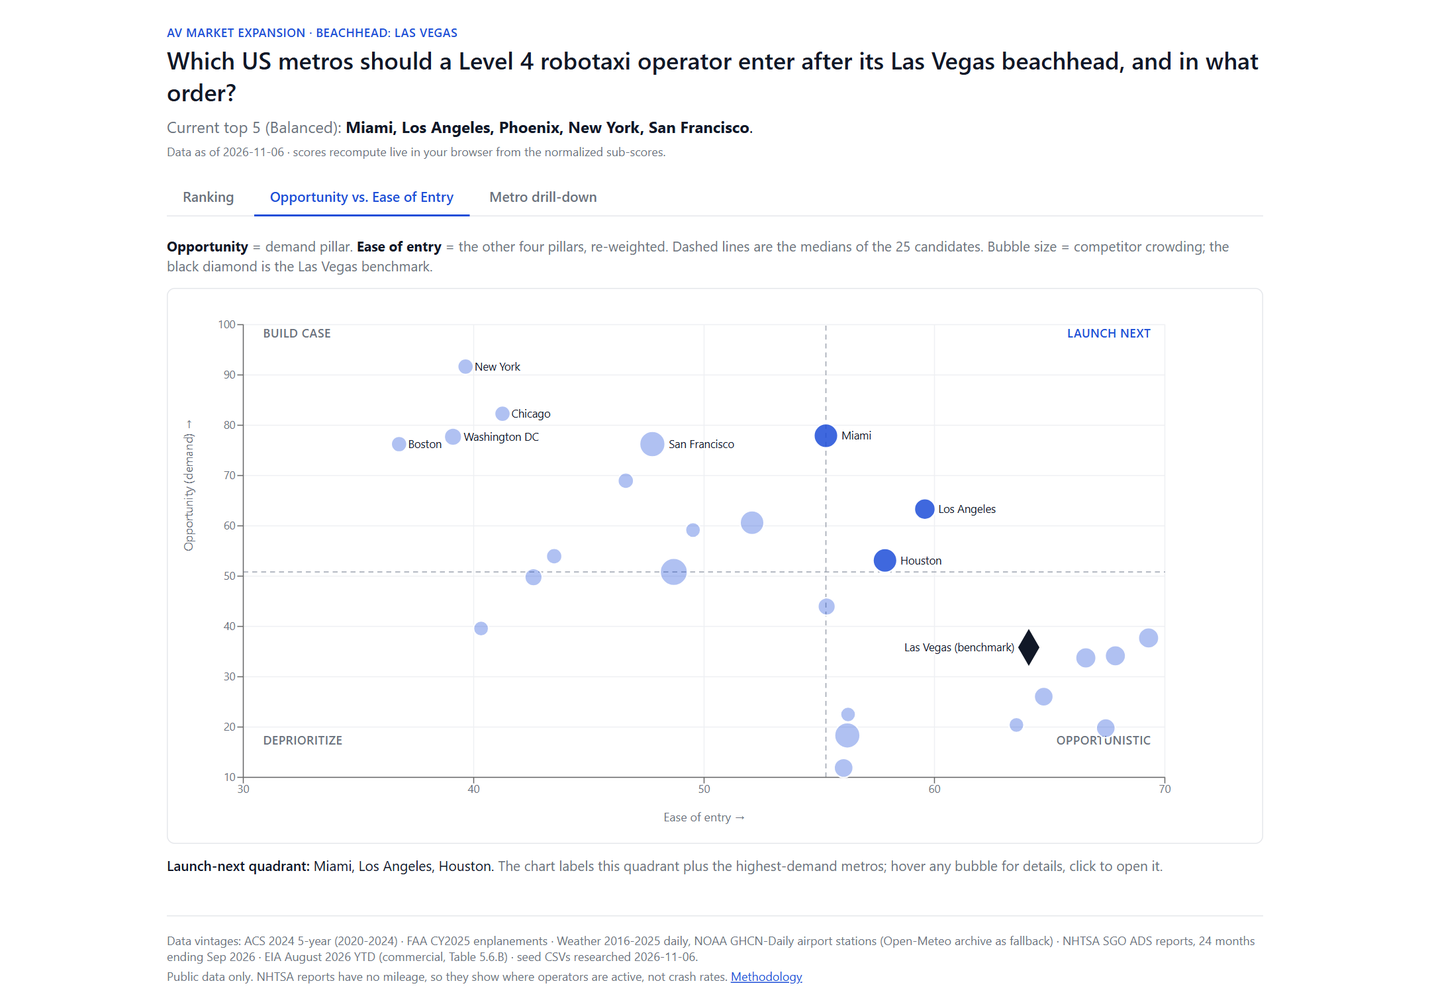
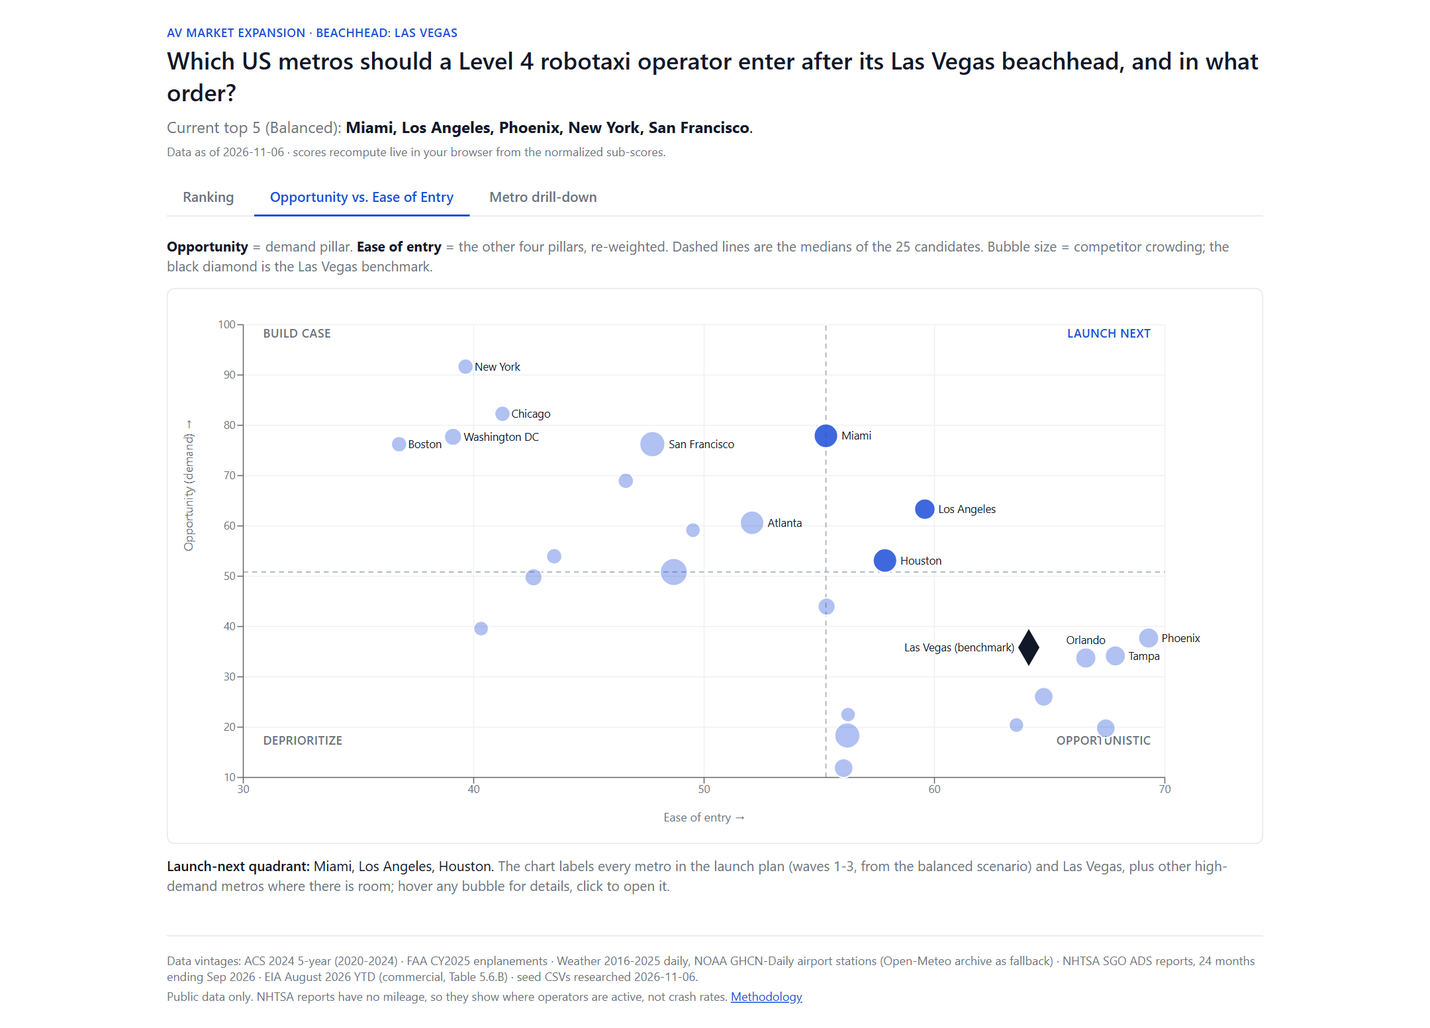
Label every wave metro and Las Vegas in the app 2x2; state wave 1 permit timing in memo, deck and README
- enrich.py stamps each metro with its wave (from reports/plan.py) so the app can label waves 1-3; placement is collision-avoiding, wave metros and Las Vegas always labelled
- Wave 1 timing: metros in slow-permit states (Los Angeles, San Francisco: California) start the permit process now with paid service after permits; Miami and Phoenix launch first; San Francisco only just clears the 50% gate (54%)
- Deck slide 4 tags each wave 1 metro; memo stays on one page; tests added

diff --git a/app/src/components/Quadrant.tsx b/app/src/components/Quadrant.tsx
@@ -3,14 +3,14 @@ import { CartesianGrid, Cell, LabelList, ReferenceLine, ResponsiveContainer, Sca
 import type { Row } from '../scoring'
 import { median } from '../scoring'
 
-interface Pt { name: string; x: number; y: number; z: number; q: string }
+interface Pt { name: string; x: number; y: number; z: number; q: string; wave: number | null }
 interface Place { dx: number; dy: number; anchor: 'start' | 'end' | 'middle' }
 
 const CHAR_W = 6.1, LABEL_H = 13
 
 /** Greedy label placement in approximate pixel space: try right, left, above, below (then diagonals) and keep the first spot that
- *  overlaps no bubble and no earlier label. Earlier names in `order` get first choice. */
-function placeLabels(pts: Pt[], order: string[], plotW: number, plotH: number, dx: [number, number], dy: [number, number]): Record<string, Place> {
+ *  overlaps no bubble and no earlier label. Earlier names in `order` get first choice. A label with must = false is dropped if no clean spot exists. */
+function placeLabels(pts: Pt[], order: { name: string; must: boolean }[], plotW: number, plotH: number, dx: [number, number], dy: [number, number]): Record<string, Place> {
   const px = (p: Pt) => ((p.x - dx[0]) / (dx[1] - dx[0])) * plotW
   const py = (p: Pt) => plotH - ((p.y - dy[0]) / (dy[1] - dy[0])) * plotH
   const zs = pts.map(p => p.z), zmin = Math.min(...zs), zmax = Math.max(...zs)
@@ -20,7 +20,7 @@ function placeLabels(pts: Pt[], order: string[], plotW: number, plotH: number, d
   const bubbles: Box[] = pts.map(p => [px(p) - radius(p), py(p) - radius(p), px(p) + radius(p), py(p) + radius(p)])
   const placed: Box[] = []
   const out: Record<string, Place> = {}
-  for (const name of order) {
+  for (const { name, must } of order) {
     const p = pts.find(q => q.name === name)
     if (!p) continue
     const w = name.length * CHAR_W, r = radius(p), cx = px(p), cy = py(p)
@@ -36,7 +36,8 @@ function placeLabels(pts: Pt[], order: string[], plotW: number, plotH: number, d
     ]
     const inside = (b: Box) => b[0] >= -60 && b[2] <= plotW + 80 && b[1] >= 0 && b[3] <= plotH
     const free = (b: Box) => inside(b) && !bubbles.some((bb, i) => pts[i].name !== name && hit(b, bb)) && !placed.some(pb => hit(b, pb))
-    const pick = cands.find(c => free(c.box)) ?? cands[0]
+    const pick = cands.find(c => free(c.box)) ?? (must ? cands[0] : undefined)
+    if (!pick) continue
     out[name] = pick.pl
     placed.push(pick.box)
   }
@@ -48,9 +49,9 @@ export default function Quadrant({ rows, onOpen }: { rows: Row[]; onOpen: (m: st
   const mx = median(cand.map(r => r.ease))
   const my = median(cand.map(r => r.opportunity))
   const quad = (x: number, y: number) => (y >= my ? (x >= mx ? 'Launch next' : 'Build case') : (x >= mx ? 'Opportunistic' : 'Deprioritize'))
-  const pts: Pt[] = cand.map(r => ({ name: r.m.metro, x: r.ease, y: r.opportunity, z: 0.5 + r.m.raw.crowding, q: quad(r.ease, r.opportunity) }))
+  const pts: Pt[] = cand.map(r => ({ name: r.m.metro, x: r.ease, y: r.opportunity, z: 0.5 + r.m.raw.crowding, q: quad(r.ease, r.opportunity), wave: r.m.wave ?? null }))
   const v = rows.find(r => r.m.benchmark)
-  const vegas: Pt[] = v ? [{ name: 'Las Vegas (benchmark)', x: v.ease, y: v.opportunity, z: 0.5 + v.m.raw.crowding, q: quad(v.ease, v.opportunity) }] : []
+  const vegas: Pt[] = v ? [{ name: 'Las Vegas (benchmark)', x: v.ease, y: v.opportunity, z: 0.5 + v.m.raw.crowding, q: quad(v.ease, v.opportunity), wave: null }] : []
   const launch = pts.filter(p => p.q === 'Launch next').sort((a, b) => b.x + b.y - a.x - a.y)
   const dom = (k: 'x' | 'y'): [number, number] => {
     const all = [...pts, ...vegas].map(p => p[k])
@@ -66,8 +67,11 @@ export default function Quadrant({ rows, onOpen }: { rows: Row[]; onOpen: (m: st
     ro.observe(el); setWidth(el.clientWidth)
     return () => ro.disconnect()
   }, [])
-  const labelled = [...launch.map(p => p.name), ...pts.filter(p => p.y >= 70 && p.q !== 'Launch next').sort((a, b) => b.y - a.y).map(p => p.name)]
-  const places = placeLabels([...pts, ...vegas], [...labelled, ...vegas.map(p => p.name)], Math.max(width - 98, 300), 560 - 16 - 56 - 40, dom('x'), dom('y'))
+  // every wave 1-3 metro and Las Vegas must be labelled (waves 1 first, so they get the best spots); other high-demand metros only if there is room
+  const inWave = pts.filter(p => p.wave != null).sort((a, b) => (a.wave as number) - (b.wave as number))
+  const extras = pts.filter(p => p.wave == null && (p.q === 'Launch next' || p.y >= 70)).sort((a, b) => b.y - a.y)
+  const labelled = [...inWave.map(p => ({ name: p.name, must: true })), ...vegas.map(p => ({ name: p.name, must: true })), ...extras.map(p => ({ name: p.name, must: false }))]
+  const places = placeLabels([...pts, ...vegas], labelled, Math.max(width - 98, 300), 560 - 16 - 56 - 40, dom('x'), dom('y'))
   // Recharts passes the symbol's top-left corner plus its width/height, so aim at the centre
   const renderLabel = (props: { x?: number | string; y?: number | string; width?: number | string; height?: number | string; value?: unknown }) => {
     const name = String(props.value ?? '')
@@ -125,7 +129,7 @@ export default function Quadrant({ rows, onOpen }: { rows: Row[]; onOpen: (m: st
       </div>
       <p className="mt-3 text-sm">
         <span className="font-semibold">Launch-next quadrant: </span>{launch.map(p => p.name).join(', ') || 'none'}.
-        <span className="text-muted"> The chart labels this quadrant plus the highest-demand metros; hover any bubble for details, click to open it.</span>
+        <span className="text-muted"> The chart labels every metro in the launch plan (waves 1-3, from the balanced scenario) and Las Vegas, plus other high-demand metros where there is room; hover any bubble for details, click to open it.</span>
       </p>
     </div>
   )

diff --git a/app/src/types.ts b/app/src/types.ts
@@ -21,7 +21,7 @@ export interface Metro {
   opportunity: number; ease_of_entry: number; vegas_similarity: number
   demand_estimate?: { tpr_low: number; tpr_base: number; tpr_high: number; trips_low: number; trips_base: number; trips_high: number; city_pop: number }
   unit_economics?: { low: Econ; base: Econ; high: Econ }
-  confidence?: number | null; median_rank?: number | null
+  confidence?: number | null; median_rank?: number | null; wave?: number | null
   why: string[]; competitors: Competitor[]; regulation: Regulation
   nhtsa_incidents: { operating_entity: string; ads_incidents: number }[]
 }

diff --git a/reports/make_memo.py b/reports/make_memo.py
@@ -120,7 +120,7 @@ memo = f"""# Where should the operator launch after Las Vegas?
 
 *For the strategy team. Data as of {asof}. Sources: Census ACS 2024 5-year, NHTSA SGO ADS reports, NOAA GHCN-Daily, EIA, FAA, and researched seed files (AV rules, competitors) as of {asof}.*
 
-**Recommendation.** {plan.one_line_answer(p)} The sequence uses balanced-weight scores for 25 US metros (demand 35, operating conditions 25, regulation 20, competition 15, charging 5). Waves 1 and 2 are limited to states with Tier 2+ AV rules; wave 1 also needs a top-5 finish in at least half of 10,000 weight draws.
+**Recommendation.** {plan.one_line_answer(p)} {plan.wave1_timing(p)} {plan.gate_note(p)} The sequence uses balanced-weight scores for 25 US metros (demand 35, operating conditions 25, regulation 20, competition 15, charging 5). Waves 1 and 2 are limited to states with Tier 2+ AV rules; wave 1 also needs a top-5 finish in at least half of 10,000 weight draws.
 
 **Why these metros** (rank, score, demand score, regulation, competitors, confidence, fleet at {pct(meta['assumptions']['capture_share']['value'])} capture)
 
@@ -134,11 +134,11 @@ memo = f"""# Where should the operator launch after Las Vegas?
 
 **Key risks and de-risking**
 
-- *Regulation:* {n_top10_low} of the top 10 sit in Tier 0-1 states; engage {plan.names(sorted({m['state'] for m in w3}))} regulators early. {plan.names(sorted({m['state'] for m in slow_open}))} {'is' if len({m['state'] for m in slow_open}) == 1 else 'are'} Tier 2+ but a slow path for a new entrant (multi-step permits): start filings in wave 1.
+- *Regulation:* {n_top10_low} of the top 10 sit in Tier 0-1 states; engage {plan.names(sorted({m['state'] for m in w3}))} regulators early. {plan.names(sorted({m['state'] for m in slow_open}))} {'is' if len({m['state'] for m in slow_open}) == 1 else 'are'} Tier 2+ but {'needs' if len({m['state'] for m in slow_open}) == 1 else 'need'} multi-step permits for a new entrant.
 - *Weather:* {weather_risk()}
 - *Competition:* {plan.names(crowded)} already have operators (crowding {min(m['raw']['crowding'] for m in crowded):.1f}-{max(m['raw']['crowding'] for m in crowded):.1f}); {least_crowded['metro']} is the least crowded launch metro ({least_crowded['raw']['crowding']:.1f}). Competitor status is dated and cross-checked against NHTSA activity.
 
-**Confidence.** {w1[0]['metro']} is top 5 in {pct(w1[0]['confidence'])} of weight draws and {w1[-1]['metro']} in {pct(w1[-1]['confidence'])};{gate} {weakest['metro']} is the softest pick ({pct(weakest['confidence'])}), so wave 2 order is not firm. A low-risk lens puts {plan.names(low_risk)} on top; fast growth, {plan.names(fast)}. {vegas_line} The answer would also change if a Tier 1 state legalized driverless service, a competitor entered {least_crowded['metro']}, or fare and capture differ from our labeled assumptions.
+**Confidence.** {w1[0]['metro']} is top 5 in {pct(w1[0]['confidence'])} of weight draws and {w1[-1]['metro']} in {pct(w1[-1]['confidence'])}; {weakest['metro']} is the softest pick ({pct(weakest['confidence'])}), so wave 2 order is not firm. A low-risk lens puts {plan.names(low_risk)} on top; fast growth, {plan.names(fast)}. {vegas_line} The answer would also change if a Tier 1 state legalized driverless service, a competitor entered {least_crowded['metro']}, or fare and capture differ from our labeled assumptions.
 
 **Data.** ACS {v['acs']}; FAA {v['faa']}; NOAA GHCN-Daily airport-station weather 2016-2025; NHTSA SGO reports to Sep 2026 (activity only, never rates); EIA {v['eia'].split(' (')[0]}; AV rules, new-entrant paths and competitors researched {asof} (some rows medium/low confidence); demand is a two-anchor estimate (Chicago and NYC ride-hail trips), not a forecast.
 """

diff --git a/reports/make_deck.py b/reports/make_deck.py
@@ -145,6 +145,19 @@ def text(slide, x, y, w, h, s, size=18, bold=False, color=INK, align=PP_ALIGN.LE
     return tb
 
 
+def rich(slide, x, y, w, h, items):
+    """One text box, one paragraph per (text, size, bold, color) item."""
+    tb = slide.shapes.add_textbox(Inches(x), Inches(y), Inches(w), Inches(h))
+    tf = tb.text_frame; tf.word_wrap = True
+    tf.margin_left = tf.margin_right = Inches(0.05)
+    for i, (s_, size, bold, color) in enumerate(items):
+        para = tf.paragraphs[0] if i == 0 else tf.add_paragraph()
+        para.space_before = Pt(5 if size >= 20 and i else 0)
+        r = para.add_run(); r.text = s_
+        r.font.size = Pt(size); r.font.bold = bold; r.font.color.rgb = rgb(color); r.font.name = "Calibri"
+    return tb
+
+
 def box(slide, x, y, w, h, fill=PANEL, line=LINE):
     sh = slide.shapes.add_shape(MSO_SHAPE.ROUNDED_RECTANGLE, Inches(x), Inches(y), Inches(w), Inches(h))
     sh.adjustments[0] = 0.04
@@ -200,7 +213,7 @@ s.shapes.add_picture(str(chart_quadrant()), Inches(0.6), Inches(1.65), width=Inc
 
 # ---------------------------------------------------------------- slide 4
 s = new_slide("Launch in three waves, gated by regulation and proof", 4)
-cols = [("Wave 1", "Start now", p["w1"], "Tier 2+ rules, top-5 in at least half of weight draws"),
+cols = [("Wave 1", (f"Start now: {len(plan.wave1_split(p)[0])} launch, {len(plan.wave1_split(p)[1])} start permits" if plan.wave1_split(p)[1] else "Start now"), p["w1"], "Tier 2+ rules, top-5 in at least half of weight draws"),
         ("Wave 2", "After wave 1 proves the playbook", p["w2"], "Tier 2+ rules, top 10; validate weather"),
         ("Wave 3", "When the law changes", p["w3"], "Top-10 demand, driverless service not yet allowed")]
 for i, (wn, when, ms, rule) in enumerate(cols):
@@ -208,8 +221,20 @@ for i, (wn, when, ms, rule) in enumerate(cols):
     box(s, x, 1.9, 3.9, 4.6, fill="#ffffff" if i else "#eef3ff", line=ACCENT if i == 0 else LINE)
     text(s, x + 0.15, 2.0, 3.6, 0.5, wn, size=24, bold=True, color=ACCENT)
     text(s, x + 0.15, 2.6, 3.6, 0.4, when, size=14, color=MUTED)
-    text(s, x + 0.15, 3.15, 3.6, 2.2, [m["metro"] for m in ms], size=22, bold=True)
-    text(s, x + 0.15, 5.45, 3.6, 0.9, rule, size=12, color=MUTED)
+    if i == 0:
+        # wave 1 is not one launch date: metros in slow-permit states start permits now, paid service follows
+        first, slow = plan.wave1_split(p)
+        items = []
+        for m in first:
+            items += [(m["metro"], 20, True, INK), ("launches first", 11, False, MUTED)]
+        for m in slow:
+            items += [(m["metro"], 20, True, INK), (f"{plan.STATE_NAMES.get(m['state'], m['state'])}: permits now, paid service after", 11, False, MUTED)]
+            if m["confidence"] < 0.6:
+                items += [(f"only just clears the 50% gate ({m['confidence'] * 100:.0f}%)", 11, False, MUTED)]
+        rich(s, x + 0.15, 3.05, 3.6, 2.7, items)
+    else:
+        text(s, x + 0.15, 3.15, 3.6, 2.2, [m["metro"] for m in ms], size=22, bold=True)
+    text(s, x + 0.15, 5.8, 3.6, 0.65, rule, size=12, color=MUTED)
 text(s, 0.6, 6.6, 12, 0.35, "Timing is indicative: sequence follows evidence gates, not calendar dates", size=11, color=MUTED)
 
 # ---------------------------------------------------------------- slide 5

diff --git a/reports/plan.py b/reports/plan.py
@@ -116,3 +116,32 @@ def why_rank(m, cand, med_opp=50.8):
            "competition": "a light competitive field", "charging": "cheap power"}[strong]
     w = [weak_phrase(k, m, crowd_rank, n, med_opp) for k in weak]
     return f"{m['metro']} ranks #{m['ranks']['balanced']} of {n} ({m['total']:.1f}): {sfx}, held back by {w[0]} and {w[1]}."
+
+
+# ---- wave 1 timing (memo, README and deck share this wording) --------------------------------
+STATE_NAMES = {"AZ": "Arizona", "CA": "California", "CO": "Colorado", "DC": "the District of Columbia", "FL": "Florida", "GA": "Georgia",
+               "IL": "Illinois", "MA": "Massachusetts", "MI": "Michigan", "MN": "Minnesota", "NC": "North Carolina", "NV": "Nevada",
+               "NY": "New York", "PA": "Pennsylvania", "TN": "Tennessee", "TX": "Texas", "WA": "Washington"}
+
+
+def wave1_split(p):
+    """(launch first, permits first): wave 1 metros whose state has a fast or moderate new-entrant path vs a slow one."""
+    first = [m for m in p["w1"] if m["regulation"]["new_entrant_path"] != "slow"]
+    slow = [m for m in p["w1"] if m["regulation"]["new_entrant_path"] == "slow"]
+    return first, slow
+
+
+def gate_note(p):
+    """'X only just clears the 50% gate (54%).' for the wave 1 metro closest to the gate, if it is within 10 points."""
+    m = min(p["w1"], key=lambda x: x["confidence"])
+    return f"{m['metro']} only just clears the 50% gate ({m['confidence'] * 100:.0f}%)." if m["confidence"] < 0.6 else ""
+
+
+def wave1_timing(p):
+    """One sentence on what wave 1 means when some wave 1 states have a slow permit path."""
+    first, slow = wave1_split(p)
+    if not slow:
+        return ""
+    states = sorted({STATE_NAMES.get(m["state"], m["state"]) for m in slow})
+    return (f"Wave 1 is not one launch date: {names(first)} launch first; {names(slow)} ({names(states)}) start the permit process now, "
+            f"with paid service only after permits.")

diff --git a/tests/test_review_fixes.py b/tests/test_review_fixes.py
@@ -156,3 +156,30 @@ def test_assumption_references_added_and_values_unchanged():
     assert "thenextweb.com" in a["vehicle_cost_usd"]["source_url"]
     assert "softwareseni.com" in a["cost_per_mile_usd"]["source_url"] and "newsroom.aaa.com" in a["cost_per_mile_usd"]["source_url"]
     assert (a["avg_fare_usd"]["value"], a["vehicle_cost_usd"]["value"], a["cost_per_mile_usd"]["value"]) == (20.0, 140000, 1.10)
+
+
+def test_json_stamps_waves_for_the_app():
+    d = json.load(open(ROOT / "data/output/metros_scored.json"))
+    p = plan.build(d)
+    stamped = {m["metro"]: m["wave"] for m in d["metros"] if m.get("wave")}
+    assert stamped == {m["metro"]: w for w, ms in ((1, p["w1"]), (2, p["w2"]), (3, p["w3"])) for m in ms}
+    assert all(m.get("wave") is None for m in d["metros"] if m["benchmark"])
+
+
+def test_memo_and_deck_say_slow_permit_wave1_metros_start_permits_first(memo):
+    p = plan.build()
+    first, slow = plan.wave1_split(p)
+    assert slow, "this check assumes at least one wave 1 metro in a slow-path state"
+    assert plan.wave1_timing(p) in memo
+    gate = plan.gate_note(p)
+    if gate:
+        assert gate in memo
+    import subprocess
+    subprocess.run([sys.executable, str(ROOT / "reports/make_deck.py")], check=True, capture_output=True)
+    prs = Presentation(ROOT / "reports/deck.pptx")
+    s4 = " ".join(sh.text_frame.text for sh in prs.slides[3].shapes if sh.has_text_frame)
+    assert "launches first" in s4 and "permits now, paid service after" in s4
+    for m in first + slow:
+        assert m["metro"] in s4
+    if gate:
+        assert "only just clears the 50% gate" in s4

diff --git a/analysis/enrich.py b/analysis/enrich.py
@@ -34,5 +34,12 @@ d["meta"]["demand_method"] = dict(
              "New York": dict(source="NYC TLC High Volume FHV trip records, monthly row counts from parquet footers", tpr=float(dem.loc["New York", "tpr_base"]))},
     note="Estimate from two anchors scaled by a demand index; not a forecast.")
 d["meta"]["vintages"]["demand"] = f"Chicago TNP and NYC HVFHV calendar {int(dem.anchor_year.iloc[0])}"
+# wave membership of the balanced plan, from the same rules the memo and deck use (reports/plan.py), so the app can label them
+sys.path.insert(0, str(ROOT / "reports"))
+import plan
+pl = plan.build(d)
+wave = {m["metro"]: w for w, ms in ((1, pl["w1"]), (2, pl["w2"]), (3, pl["w3"])) for m in ms}
+for m in d["metros"]:
+    m["wave"] = wave.get(m["metro"])
 json.dump(d, open(OUT, "w"), indent=1)
 print("enriched", len(d["metros"]), "metros")

diff --git a/tests/test_reports.py b/tests/test_reports.py
@@ -15,7 +15,7 @@ def build_reports():
 
 def test_memo_fits_one_page_by_length():
     memo = (ROOT / "reports/memo.md").read_text(encoding="utf-8")
-    assert len(memo.split()) <= 760          # rendered to a single Letter page at 10 pt in Edge (render_memo.py checks the real page count)
+    assert len(memo.split()) <= 800          # rendered to a single Letter page at 10 pt in Edge (render_memo.py checks the real page count)
     for h in ["Recommendation", "Why these metros", "Deprioritize", "Key risks", "Confidence", "Data"]:
         assert h in memo
 

diff --git a/reports/memo.md b/reports/memo.md
@@ -2,7 +2,7 @@
 
 *For the strategy team. Data as of 2026-11-06. Sources: Census ACS 2024 5-year, NHTSA SGO ADS reports, NOAA GHCN-Daily, EIA, FAA, and researched seed files (AV rules, competitors) as of 2026-11-06.*
 
-**Recommendation.** Enter Miami, Los Angeles, Phoenix and San Francisco first, then Houston, Tampa, Orlando and Atlanta; hold New York and Chicago until the rules change. The sequence uses balanced-weight scores for 25 US metros (demand 35, operating conditions 25, regulation 20, competition 15, charging 5). Waves 1 and 2 are limited to states with Tier 2+ AV rules; wave 1 also needs a top-5 finish in at least half of 10,000 weight draws.
+**Recommendation.** Enter Miami, Los Angeles, Phoenix and San Francisco first, then Houston, Tampa, Orlando and Atlanta; hold New York and Chicago until the rules change. Wave 1 is not one launch date: Miami and Phoenix launch first; Los Angeles and San Francisco (California) start the permit process now, with paid service only after permits. San Francisco only just clears the 50% gate (54%). The sequence uses balanced-weight scores for 25 US metros (demand 35, operating conditions 25, regulation 20, competition 15, charging 5). Waves 1 and 2 are limited to states with Tier 2+ AV rules; wave 1 also needs a top-5 finish in at least half of 10,000 weight draws.
 
 **Why these metros** (rank, score, demand score, regulation, competitors, confidence, fleet at 3% capture)
 
@@ -19,10 +19,10 @@
 
 **Key risks and de-risking**
 
-- *Regulation:* 2 of the top 10 sit in Tier 0-1 states; engage IL and NY regulators early. CA is Tier 2+ but a slow path for a new entrant (multi-step permits): start filings in wave 1.
+- *Regulation:* 2 of the top 10 sit in Tier 0-1 states; engage IL and NY regulators early. CA is Tier 2+ but needs multi-step permits for a new entrant.
 - *Weather:* No launch metro has meaningful snow; Miami has rain on ~92 days and Phoenix ~89 days at 40 C or higher. Validate heat and wet-weather performance before public launch.
 - *Competition:* Miami, Los Angeles, Phoenix and San Francisco already have operators (crowding 1.3-2.5); Phoenix is the least crowded launch metro (1.3). Competitor status is dated and cross-checked against NHTSA activity.
 
-**Confidence.** Miami is top 5 in 97% of weight draws and San Francisco in 54%; San Francisco only just clears the 50% wave 1 gate. Atlanta is the softest pick (9%), so wave 2 order is not firm. A low-risk lens puts Phoenix, Miami, Tampa, Los Angeles and Orlando on top; fast growth, Miami, New York, San Francisco, Los Angeles and Chicago. Las Vegas, the beachhead, scores "Opportunistic" on this model (demand 36/100), which shows it underweights tourism-driven demand: visitors are not in resident population, density or commute data. The answer would also change if a Tier 1 state legalized driverless service, a competitor entered Phoenix, or fare and capture differ from our labeled assumptions.
+**Confidence.** Miami is top 5 in 97% of weight draws and San Francisco in 54%; Atlanta is the softest pick (9%), so wave 2 order is not firm. A low-risk lens puts Phoenix, Miami, Tampa, Los Angeles and Orlando on top; fast growth, Miami, New York, San Francisco, Los Angeles and Chicago. Las Vegas, the beachhead, scores "Opportunistic" on this model (demand 36/100), which shows it underweights tourism-driven demand: visitors are not in resident population, density or commute data. The answer would also change if a Tier 1 state legalized driverless service, a competitor entered Phoenix, or fare and capture differ from our labeled assumptions.
 
 **Data.** ACS 2024 5-year (2020-2024); FAA CY2025 enplanements; NOAA GHCN-Daily airport-station weather 2016-2025; NHTSA SGO reports to Sep 2026 (activity only, never rates); EIA August 2026 YTD; AV rules, new-entrant paths and competitors researched 2026-11-06 (some rows medium/low confidence); demand is a two-anchor estimate (Chicago and NYC ride-hail trips), not a forecast.

diff --git a/README.md b/README.md
@@ -10,7 +10,7 @@
 | 2 | Houston, Tampa, Orlando and Atlanta | Tier 2+ rules, top 10; weather to validate (Houston 27%, Tampa 33%, Orlando 12%, Atlanta 9%) |
 | 3 | New York and Chicago | Top-10 demand, but driverless commercial service is not yet allowed |
 
-Miami, Los Angeles, Phoenix and San Francisco already have operating competitors, so wave 1 is a bet on demand and rules, not on an open field. CA is Tier 2+ but a slow path for a new entrant (multi-step permits). Dallas-Fort Worth (#18, no wave) and Houston (#6, wave 2) are explained in the memo. Ranks below about #5 are close: read them as a tier, not a strict order (see the Monte Carlo confidence column). Read the one-page memo ([reports/memo.md](reports/memo.md)), the 7-slide deck (`reports/deck.pptx`) and the external accuracy check ([docs/validation.md](docs/validation.md)) for the reasoning, risks and evidence.
+Miami, Los Angeles, Phoenix and San Francisco already have operating competitors, so wave 1 is a bet on demand and rules, not on an open field. Wave 1 is not one launch date: Miami and Phoenix launch first; Los Angeles and San Francisco (California) start the permit process now, with paid service only after permits. San Francisco only just clears the 50% gate (54%). Dallas-Fort Worth (#18, no wave) and Houston (#6, wave 2) are explained in the memo. Ranks below about #5 are close: read them as a tier, not a strict order (see the Monte Carlo confidence column). Read the one-page memo ([reports/memo.md](reports/memo.md)), the 7-slide deck (`reports/deck.pptx`) and the external accuracy check ([docs/validation.md](docs/validation.md)) for the reasoning, risks and evidence.
 
 ## Screenshots
 
